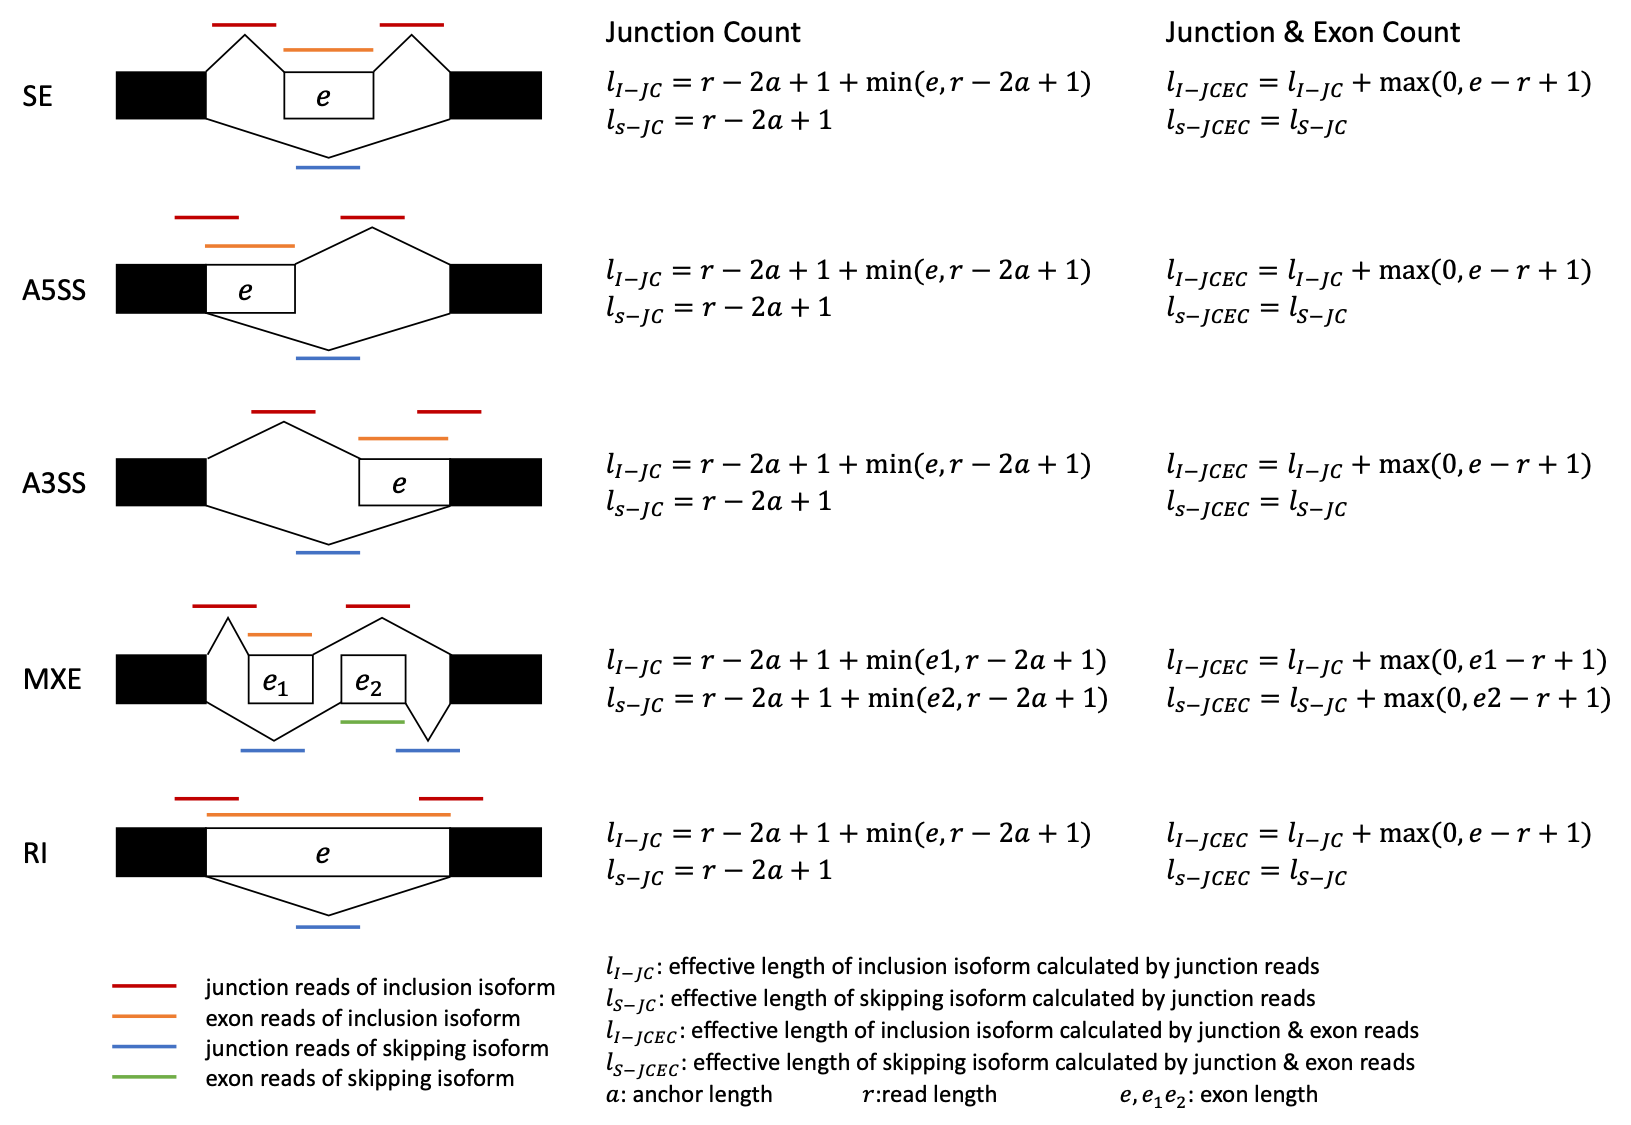
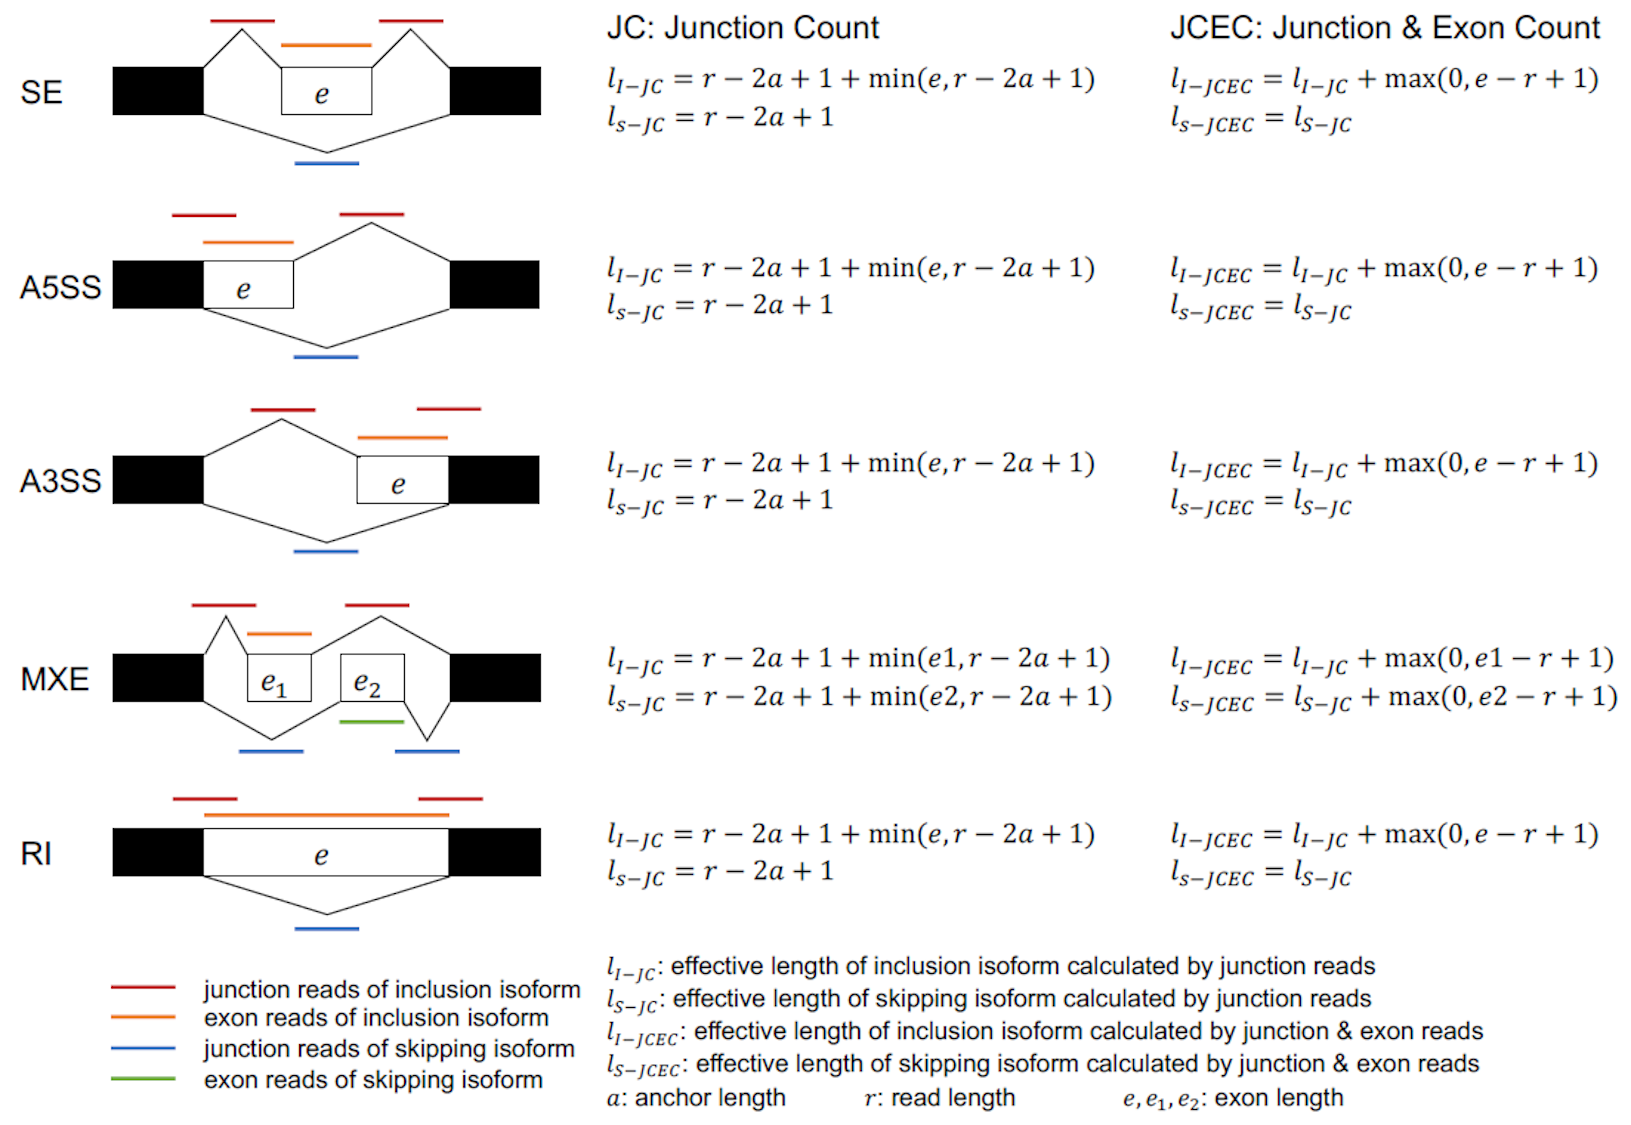
Update documentation text (#258)
* Including text in diagram

diff --git a/rmats.py b/rmats.py
@@ -126,14 +126,14 @@ def get_args():
     parser.add_argument('--libType', action='store', default='fr-unstranded',
                         choices=['fr-unstranded', 'fr-firststrand',
                                  'fr-secondstrand',],
-                        help='Library type. Use fr-firststrand or fr-secondstrand for strand-specific data. Only relevant to prep step, not the post step. Default: %(default)s', dest='dt')
+                        help='Library type. Use fr-firststrand or fr-secondstrand for strand-specific data. Only relevant to the prep step, not the post step. Default: %(default)s', dest='dt')
     parser.add_argument('--readLength', action='store', type=int,
                         help='The length of each read', dest='readLength')
     parser.add_argument('--variable-read-length', action='store_true',
                         help='Allow reads with lengths that differ from --readLength to be processed. --readLength will still be used to determine IncFormLen and SkipFormLen',
                         dest='variable_read_length')
     parser.add_argument('--anchorLength', action='store', type=int, default=1,
-                        help='The "anchor length" or "overhang length" used when counting the number of reads spanning splicing junctions. At least "anchor length" nucleotides must be mapped to each end of a given junction. The default value is set to %(default)s to make use of all possible junction reads. The minimum value is 1.', dest='anchorLength')
+                        help='The "anchor length" or "overhang length" used when counting the number of reads spanning splice junctions. A minimum number of "anchor length" nucleotides must be mapped to each end of a given junction. The minimum value is 1 and the default value is set to %(default)s to make use of all possible splice junction reads.', dest='anchorLength')
     parser.add_argument('--tophatAnchor', action='store', type=int, default=1,
                         help='The "anchor length" or "overhang length" used in the aligner. At least "anchor length" NT must be mapped to each end of a given junction. The default is %(default)s. (Only if using fastq)', dest='tophatAnchor')
     parser.add_argument('--bi', action='store', default='',

diff --git a/rMATS_P/summary.py b/rMATS_P/summary.py
@@ -111,8 +111,8 @@ def summarize(args, output_file_handle):
     print('\t'.join(headers), file=output_file_handle)
     event_types = {
         'SE': 'skipped exon',
-        'A5SS': "alternative 5' splice site",
-        'A3SS': "alternative 3' splice site",
+        'A5SS': "alternative 5' splice sites",
+        'A3SS': "alternative 3' splice sites",
         'MXE': 'mutually exclusive exons',
         'RI': 'retained intron'
     }

diff --git a/README.md b/README.md
@@ -287,8 +287,8 @@ optional arguments:
                         Default: paired
   --libType {fr-unstranded,fr-firststrand,fr-secondstrand}
                         Library type. Use fr-firststrand or fr-secondstrand
-                        for strand-specific data. Only relevant to prep step,
-                        not the post step. Default: fr-unstranded
+                        for strand-specific data. Only relevant to the prep
+                        step, not the post step. Default: fr-unstranded
   --readLength READLENGTH
                         The length of each read
   --variable-read-length
@@ -297,11 +297,12 @@ optional arguments:
                         determine IncFormLen and SkipFormLen
   --anchorLength ANCHORLENGTH
                         The "anchor length" or "overhang length" used when
-                        counting the number of reads spanning splicing
-                        junctions. At least "anchor length" nucleotides must
-                        be mapped to each end of a given junction. The default
-                        value is set to 1 to make use of all possible junction
-                        reads. The minimum value is 1.
+                        counting the number of reads spanning splice
+                        junctions. A minimum number of "anchor length"
+                        nucleotides must be mapped to each end of a given
+                        junction. The minimum value is 1 and the default value
+                        is set to 1 to make use of all possible splice
+                        junction reads.
   --tophatAnchor TOPHATANCHOR
                         The "anchor length" or "overhang length" used in the
                         aligner. At least "anchor length" NT must be mapped to
@@ -345,20 +346,20 @@ optional arguments:
 
 ## Output
 
-Each alternative splicing event type has a corresponding set of output files. In the filename templates below `[AS_Event]` is replaced by one of [SE (skipped exon), MXE (mutually exclusive exons), A3SS (alternative 3' splice site), A5SS (alternative 5' splice site), RI (retained intron)] for the event specific filename.
+In rMATS-turbo, each alternative splicing pattern has a corresponding set of output files. In the filename templates below, `[AS_Event]` is replaced by one of the five basic alternative splicing patterns: skipped exon (SE), alternative 5' splice sites (A5SS), alternative 3' splice sites (A3SS), mutually exclusive exons (MXE), or retained intron (RI). As shown in the diagram, the number of supporting reads can be counted by the junction reads only (JC) or by both the junction and exon reads (JCEC). The output file from different counting methods is also indicated in the file name.
 
 ![rmats-turbo](docs/rmats_diagram.png)
 
 
 `--od` contains the final output files from the post step:
 
-- `[AS_Event].MATS.JC.txt`: Final output that contains both event information and read counts information. Only reads that span junctions defined by rMATS-turbo are included.
-- `[AS_Event].MATS.JCEC.txt`: Final output that contains both event information and read counts information. Both reads that span junctions defined by rMATS-turbo and reads that do not cross an exon boundary are included.
-- `fromGTF.[AS_Event].txt`: All identified alternative splicing (AS) events derived from GTF and RNA
-- `fromGTF.novelJunction.[AS_Event].txt`: Alternative splicing (AS) events which were identified only after considering the RNA (as opposed to analyzing the GTF in isolation). This does not include events with an unannotated splice site.
-- `fromGTF.novelSpliceSite.[AS_Event].txt`: This file contains only those events which include an unannotated splice site. Only relevant if `--novelSS` is enabled.
-- `JC.raw.input.[AS_Event].txt`: Event counts including only reads that span junctions defined by rmats (Junction Counts)
-- `JCEC.raw.input.[AS_Event].txt`: Event counts including both reads that span junctions defined by rmats (Junction Counts) and reads that do not cross an exon boundary (Exon Counts)
+- `[AS_Event].MATS.JC.txt`: Final output that contains the list of events and read counts. Only splice junction reads are counted.
+- `[AS_Event].MATS.JCEC.txt`: Final output that contains the list of events and read counts. Both splice junction reads and exon body reads are counted.
+- `fromGTF.[AS_Event].txt`: All identified alternative splicing (AS) events derived from GTF and RNA.
+- `fromGTF.novelJunction.[AS_Event].txt`: Alternative splicing (AS) events which were identified only after considering the RNA (as opposed to analyzing the GTF in isolation). Does not include events with an unannotated splice site.
+- `fromGTF.novelSpliceSite.[AS_Event].txt`: This file contains only events that include an unannotated splice site. Only relevant if `--novelSS` is enabled.
+- `JC.raw.input.[AS_Event].txt`: Event counts including only reads that span junctions defined by rMATS.
+- `JCEC.raw.input.[AS_Event].txt`: Event counts including both reads that span junctions defined by rMATS and reads that do not cross an exon boundary.
 - Shared columns:
   * `ID`: rMATS event id
   * `GeneID`: Gene id
@@ -380,16 +381,16 @@ Each alternative splicing event type has a corresponding set of output files. In
   * SE: `exonStart_0base` `exonEnd` `upstreamES` `upstreamEE` `downstreamES` `downstreamEE`
     + The inclusion form includes the target exon (`exonStart_0base`, `exonEnd`)
   * MXE: `1stExonStart_0base` `1stExonEnd` `2ndExonStart_0base` `2ndExonEnd` `upstreamES` `upstreamEE` `downstreamES` `downstreamEE`
-    + If the strand is `+` then the inclusion form includes the 1st exon (`1stExonStart_0base`, `1stExonEnd`) and skips the 2nd exon
-    + If the strand is `-` then the inclusion form includes the 2nd exon (`2ndExonStart_0base`, `2ndExonEnd`) and skips the 1st exon
+    + If the strand is `+`, then the inclusion form includes the 1st exon (`1stExonStart_0base`, `1stExonEnd`) and skips the 2nd exon
+    + If the strand is `-`, then the inclusion form includes the 2nd exon (`2ndExonStart_0base`, `2ndExonEnd`) and skips the 1st exon
   * A3SS, A5SS: `longExonStart_0base` `longExonEnd` `shortES` `shortEE` `flankingES` `flankingEE`
     + The inclusion form includes the long exon (`longExonStart_0base`, `longExonEnd`) instead of the short exon (`shortES` `shortEE`)
   * RI: `riExonStart_0base` `riExonEnd` `upstreamES` `upstreamEE` `downstreamES` `downstreamEE`
     + The inclusion form includes (retains) the intron (`upstreamEE`, `downstreamES`)
-- `summary.txt`: Brief summary of all AS event types. Includes the total event counts and significant event counts. By default, events are counted as significant if FDR <= 0.05. The summary can be regenerated with different criteria by running [rMATS_P/summary.py](rMATS_P/summary.py)
+- `summary.txt`: Brief summary of all alternative splicing event types. Includes the total event counts and significant event counts. By default, events are counted as significant if FDR <= 0.05. Summary can be regenerated with different criteria by running [rMATS_P/summary.py](rMATS_P/summary.py)
 
 `--tmp` contains the intermediate files generated by the prep step:
 
-- `{datetime}_{id}.rmats`: Summary generated from processing a BAM
-- `{datetime}_bam{sample_num}_{replicate_num}/Aligned.sortedByCoord.out.bam`: result of mapping input FASTQ files
-- `{datetime}_read_outcomes_by_bam.txt`: Counts of the reads used from each BAM along with counts of the reasons that reads were not able to be used
+- `[datetime]_[id].rmats`: Summary generated from processing a BAM
+- `[datetime]_bam[sample_num]_[replicate_num]/Aligned.sortedByCoord.out.bam`: Result of mapping input FASTQ files
+- `[datetime]_read_outcomes_by_bam.txt`: Counts of the reads used from each BAM along with counts of the reasons that reads were not able to be used
